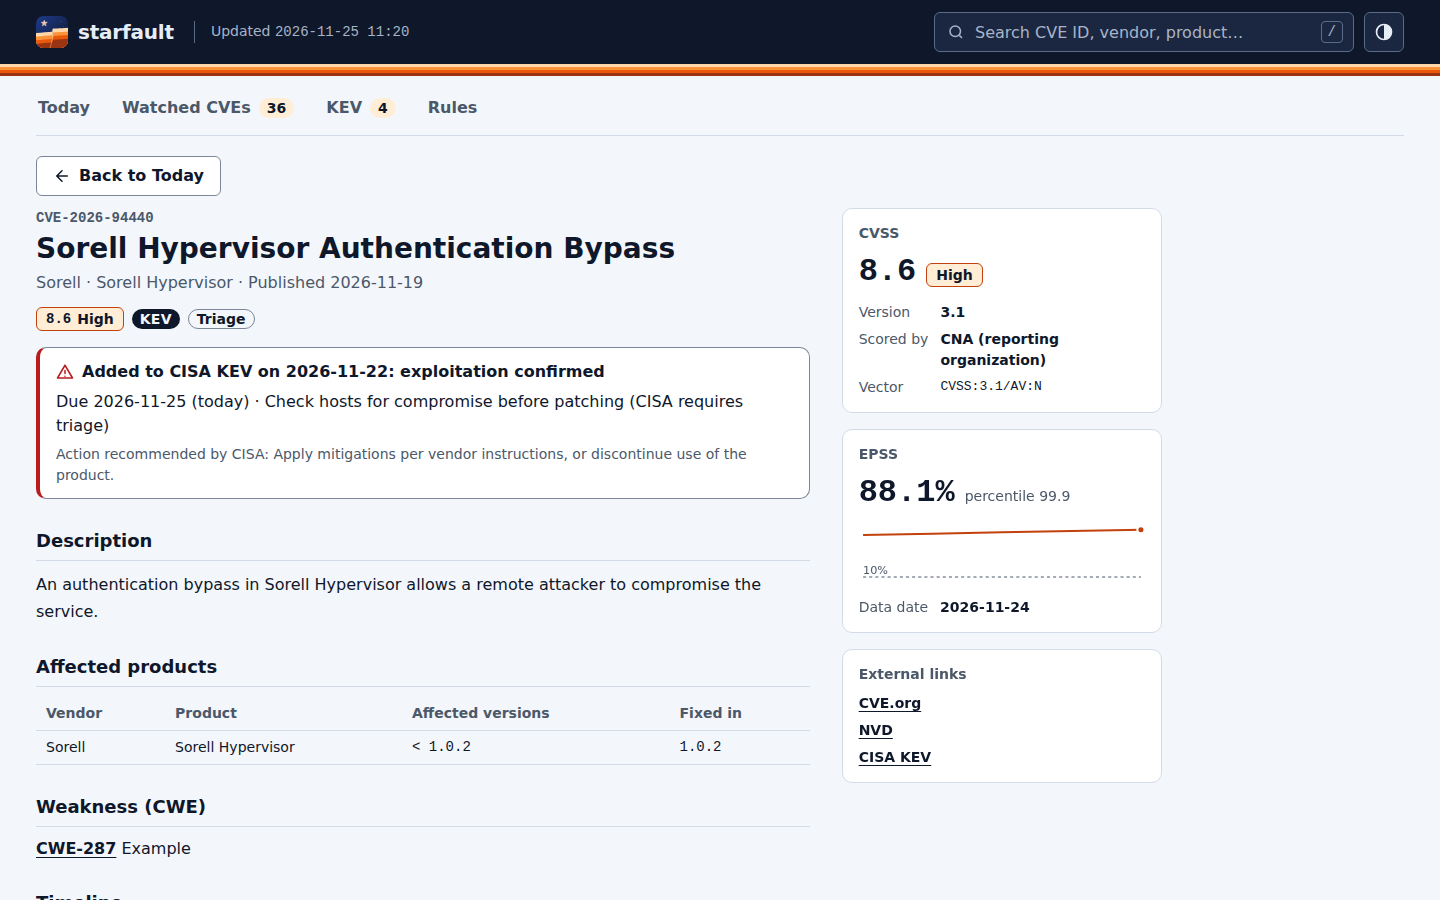
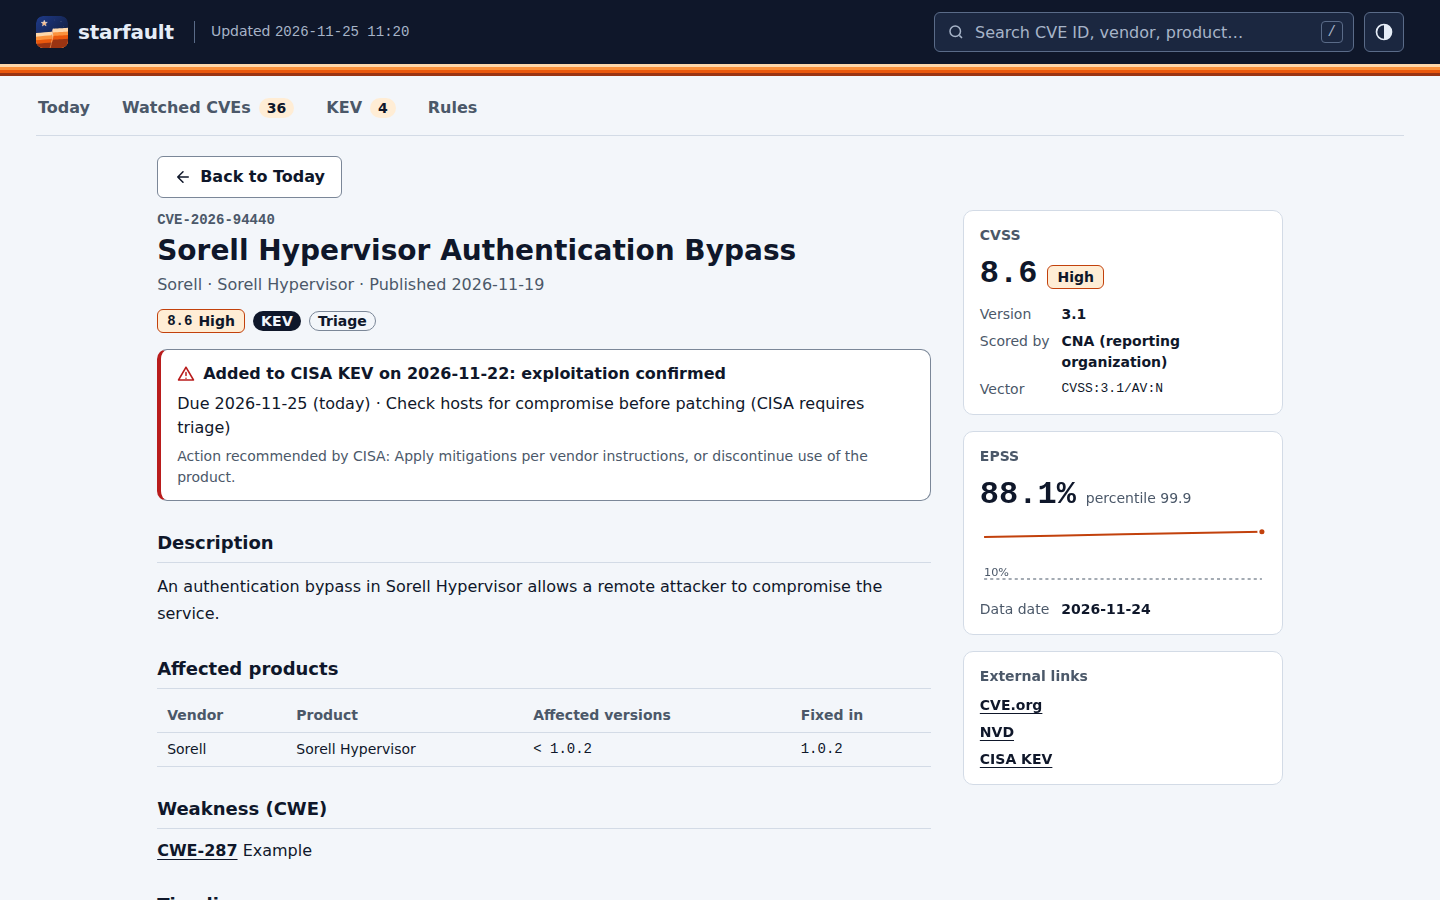
feat(web): 內容寬度上限改為 1680px，詳細頁置中並加上捲動後的固定列
- 頁首、內容與頁尾最寬 1680px 並置中，與 starstrata、starcore 相同
- CVE 詳細頁的寬度上限為內文＋欄距＋右欄，在頁面中置中
- 標題捲到分頁列底下後，桌面版出現一行固定列，放返回按鈕與標題
- 右欄的吸頂位置與捲動定位讓出固定列的高度
- 設計規則與頁面規格寫入版面規則，重新產生詳細頁截圖

diff --git a/web/app.js b/web/app.js
@@ -428,13 +428,14 @@ async function viewKev(route, meta, cves, kev) {
 /* =====================================================================
  * 頁面：CVE 詳細
  * ===================================================================== */
-function backHtml() {
+// cls：頁面上的返回按鈕用 back；固定列裡的那一份用 d-mini-back，兩者行為相同
+function backHtml(cls = 'back') {
   const from = history.state?.from;
   if (from) {
     const s = LOCALE === 'en' || /^[A-Za-z0-9]/.test(from.label) ? ' ' : '';
-    return `<button type="button" class="btn back" data-back>${ICON.back}${esc(t('detail.back', { sep: s, label: from.label }))}</button>`;
+    return `<button type="button" class="btn ${cls}" data-back>${ICON.back}<span>${esc(t('detail.back', { sep: s, label: from.label }))}</span></button>`;
   }
-  return `<a class="btn back" href="#/">${ICON.back}${t('detail.toToday')}</a>`;
+  return `<a class="btn ${cls}" href="#/">${ICON.back}<span>${t('detail.toToday')}</span></a>`;
 }
 function sparkHtml(hist, th) {
   if (hist.length < 2) return '';
@@ -453,7 +454,7 @@ async function viewCve(route, meta, cves, kev) {
   const base = cves.find(r => r.id === id) || (kev.find(k => k.id === id) && fromKev(kev.find(k => k.id === id)));
   let d = null;
   if (base) { try { d = await getData('cve/' + id); } catch (e) { if (!(e instanceof NotFound)) throw e; } }
-  if (!base || !d) return backHtml() + emptyHtml('quiet', t('detail.notFound'), t('detail.notFoundText', { id: `<b class="mono">${esc(route.id)}</b>` }), `<a class="btn" href="#/cves">${t('detail.toCves')}</a>`);
+  if (!base || !d) return `<div class="d-page">` + backHtml() + emptyHtml('quiet', t('detail.notFound'), t('detail.notFoundText', { id: `<b class="mono">${esc(route.id)}</b>` }), `<a class="btn" href="#/cves">${t('detail.toCves')}</a>`) + '</div>';
   route.id = id;
   const r = base, k = d.kev, th = meta.thresholds.epss;
   const ext = (href, text) => `<a href="${esc(href)}" target="_blank" rel="noopener noreferrer">${text}<span class="sr">${t('newTab')}</span></a>`;
@@ -482,7 +483,8 @@ async function viewCve(route, meta, cves, kev) {
       <li>${ext(`https://www.cve.org/CVERecord?id=${encodeURIComponent(id)}`, 'CVE.org')}</li>
       <li>${ext(`https://nvd.nist.gov/vuln/detail/${encodeURIComponent(id)}`, 'NVD')}</li>
       ${k ? `<li>${ext('https://www.cisa.gov/known-exploited-vulnerabilities-catalog', 'CISA KEV')}</li>` : ''}</ul></nav>`;
-  return `${backHtml()}
+  return `<div class="d-page">${backHtml()}
+    <div class="d-mini" hidden><div class="d-mini-in">${backHtml('d-mini-back')}<span class="d-mini-title">${titleHtml(r)}</span></div></div>
     <div class="d-layout">
       <header class="d-head">
         <div class="cve-id">${esc(id)}</div>
@@ -496,7 +498,7 @@ async function viewCve(route, meta, cves, kev) {
         <section aria-labelledby="dDesc"><h3 id="dDesc">${t('detail.desc')}</h3>${desc}</section>
         ${affected}${cwe}${tl}${refs}
       </div>
-    </div>`;
+    </div></div>`;
 }
 
 /* =====================================================================
@@ -599,11 +601,17 @@ function measureSticky() {
   const subH = $('#subnav').offsetHeight;
   const filters = $('#filters');
   const desktop = matchMedia('(min-width: 721px)').matches;
-  document.documentElement.style.setProperty('--tabs-h', subH + 'px');
-  document.documentElement.style.setProperty('--sticky-h', (subH + (filters && desktop ? filters.offsetHeight : 0) + 8) + 'px');
+  const root = document.documentElement;
+  // 詳細頁的固定列是 fixed，不佔版面；捲動定位仍要讓出它的高度
+  const miniH = $('.d-mini') && desktop ? parseFloat(getComputedStyle(root).getPropertyValue('--mini-h')) : 0;
+  root.style.setProperty('--tabs-h', subH + 'px');
+  root.style.setProperty('--sticky-h', (subH + (filters && desktop ? filters.offsetHeight : 0) + miniH + 8) + 'px');
   updateStuck();
 }
 function updateStuck() {
+  // 詳細頁：標題捲到分頁列底下之後才顯示固定列
+  const mini = $('.d-mini');
+  if (mini) mini.hidden = !(matchMedia('(min-width: 721px)').matches && $('.d-head h2').getBoundingClientRect().bottom <= $('#subnav').offsetHeight);
   const f = $('#filters');
   if (!f) return;
   const top = parseFloat(getComputedStyle(f).top) || 0;

diff --git a/web/style.css b/web/style.css
@@ -17,7 +17,7 @@
   --font-sans: system-ui, -apple-system, "Segoe UI", "PingFang TC", "Noto Sans TC", "Microsoft JhengHei", sans-serif;
   --font-mono: ui-monospace, "SF Mono", Menlo, Consolas, "Liberation Mono", monospace;
   --radius-md: 10px; --radius-sm: 6px; --radius-pill: 999px;
-  --content-max: 2560px; --page-pad: clamp(16px, 2.5vw, 48px); --read-max: 76ch;
+  --content-max: 1680px; --page-pad: clamp(16px, 2.5vw, 48px); --read-max: 76ch; --mini-h: 56px;
 }
 @media (prefers-color-scheme: dark) {
   :root:not([data-theme="light"]) {
@@ -288,10 +288,16 @@ button { font: inherit; color: inherit; }
 .tbl tr.cur td { font-weight: 700; background: var(--accent-soft); }
 
 /* ===== CVE 詳細頁 ===== */
-.back { margin: 20px 0 12px; }
+/* ===== CVE 詳細頁 ===== */
+/* 閱讀型頁面：寬度上限 = 內文 + 欄距 + 右欄，與 .d-layout 一致，在外框內置中 */
+.d-page, .sk-article, .d-mini-in { max-width: calc(var(--read-max) + 32px + 320px); margin-inline: auto; }
+/* 標題捲出畫面後才出現的固定列，放返回按鈕與標題 */
+.d-mini { display: none; }
+/* 返回文字含篩選條件時會很長：允許換行，不超出版面 */
+.back { margin: 20px 0 12px; max-width: 100%; height: auto; min-height: 40px; padding-block: 8px; white-space: normal; text-align: left; }
 .d-layout { display: grid; grid-template-columns: minmax(0, var(--read-max)) minmax(260px, 320px); grid-template-areas: 'head side' 'body side'; column-gap: 32px; align-items: start; justify-content: start; }
 .d-head { grid-area: head; }
-.d-side { grid-area: side; position: sticky; top: calc(var(--tabs-h, 49px) + 16px); display: grid; gap: 16px; }
+.d-side { grid-area: side; position: sticky; top: calc(var(--tabs-h, 49px) + var(--mini-h) + 16px); display: grid; gap: 16px; }
 .d-body { grid-area: body; }
 .d-head .cve-id { font-size: 14px; color: var(--muted); }
 .d-head h2 { margin: 2px 0 0; font-size: 28px; line-height: 36px; overflow-wrap: anywhere; }
@@ -358,6 +364,12 @@ button { font: inherit; color: inherit; }
 @media (min-width: 721px) {
   .filters { position: sticky; top: var(--tabs-h, 49px); z-index: 14; }
   .filters.is-stuck { border-bottom-color: var(--border); }
+  .d-mini { position: fixed; top: var(--tabs-h, 49px); left: 0; right: 0; z-index: 13; padding-inline: var(--page-pad); background: var(--bg); border-bottom: 1px solid var(--border); }
+  .d-mini:not([hidden]) { display: block; }
+  .d-mini-in { height: var(--mini-h); display: flex; align-items: center; gap: 16px; }
+  .d-mini-back { flex: 0 1 auto; max-width: 45%; height: 36px; }
+  .d-mini-back > span, .d-mini-title { min-width: 0; overflow: hidden; text-overflow: ellipsis; white-space: nowrap; }
+  .d-mini-title { flex: 1 1 auto; font-size: 18px; font-weight: 600; }
 }
 @media (max-width: 1400px) {
   .sections { grid-template-columns: 1fr 1fr; }

diff --git a/tests/e2e/test_app.py b/tests/e2e/test_app.py
@@ -309,6 +309,68 @@ def test_detail_content(open_page: OpenPage, base_url: str) -> None:
     assert pg.locator(".empty").count() == 1 and "找不到" in pg.inner_text(".empty")
 
 
+# ===== 版面 =====
+
+
+@pytest.mark.parametrize("route", ["", "#/cves", f"#/cve/{FOCUS}"])
+def test_content_width_is_capped_and_centered(
+    open_page: OpenPage, base_url: str, route: str
+) -> None:
+    pg = open_page(2560, 900)
+    _go(pg, base_url + route)
+    view = pg.evaluate("document.documentElement.clientWidth")
+    for sel in (".hdr-in", ".wrap", ".foot-in"):
+        box = pg.locator(sel).bounding_box()
+        assert box is not None and box["width"] == 1680, f"{sel} 最寬 1680px"
+        assert abs(box["x"] - (view - box["x"] - box["width"])) <= 1, f"{sel} 置中"
+
+
+@pytest.mark.parametrize("width", [1440, 2560])
+def test_detail_page_is_centered(open_page: OpenPage, base_url: str, width: int) -> None:
+    pg = open_page(width, 800)
+    _go(pg, base_url + f"#/cve/{FOCUS}")
+    box = pg.locator(".d-page").bounding_box()
+    view = pg.evaluate("document.documentElement.clientWidth")
+    assert box is not None and box["width"] < view - 200, "寬螢幕上詳細頁有寬度上限"
+    left, right = box["x"], view - box["x"] - box["width"]
+    assert abs(left - right) <= 1, f"詳細頁置中：左 {left}、右 {right}"
+    back = pg.locator(".d-page .back").bounding_box()
+    assert back is not None and back["x"] == box["x"], "返回按鈕和內文左緣對齊"
+
+
+def test_mini_bar_appears_after_the_title_scrolls_away(open_page: OpenPage, base_url: str) -> None:
+    pg = open_page(1440, 700)
+    _go(pg, base_url + "#/cves")
+    _click(pg, f'#view a[href="#/cve/{FOCUS}"]', f"#/cve/{FOCUS}")
+    mini = pg.locator(".d-mini")
+    expect(mini).to_be_hidden()
+    pg.evaluate("window.scrollTo(0, 400)")
+    expect(mini).to_be_visible()
+    expect(mini.locator(".d-mini-title")).to_have_text(pg.inner_text(".d-head h2"))
+    tabs = pg.locator("#subnav").bounding_box()
+    bar = mini.bounding_box()
+    side = pg.locator(".d-side").bounding_box()
+    assert tabs and bar and side
+    assert bar["y"] == tabs["y"] + tabs["height"], "固定列貼在分頁列下方"
+    assert bar["height"] <= 60, "固定列只佔一行"
+    assert side["y"] >= bar["y"] + bar["height"], "右欄不被固定列蓋住"
+    pg.evaluate("window.scrollTo(0, 0)")
+    expect(mini).to_be_hidden()
+    pg.evaluate("window.scrollTo(0, 400)")
+    expect(mini).to_be_visible()
+    mini.locator(".d-mini-back").click()
+    expect(pg).to_have_url(re.compile(r"#/cves$"))
+    _ready(pg)
+
+
+def test_mini_bar_is_not_used_on_narrow_screens(open_page: OpenPage, base_url: str) -> None:
+    pg = open_page(390, 800)
+    _go(pg, base_url + f"#/cve/{FOCUS}")
+    pg.evaluate("window.scrollTo(0, 600)")
+    pg.wait_for_function("window.scrollY === 600")
+    expect(pg.locator(".d-mini")).to_be_hidden()
+
+
 # ===== 搜尋 =====
 
 

diff --git a/docs/DESIGN.md b/docs/DESIGN.md
@@ -55,9 +55,12 @@ starfault 是每日 CVE 儀表板。它和 starstrata、starcore 是同一個家
 
 ## 版面
 
+- 內容最寬 1680px（`--content-max`），寬螢幕時置中、左右留白；頁首與頁尾的底色仍然滿版。這個寬度與 starstrata、starcore 相同。
+- 資料型頁面（今日、關注 CVE、KEV、規則）用滿內容寬度；閱讀型頁面（CVE 詳細頁）收窄到內文＋右欄並置中。三個專案共用這條規則。
 - 今日頁：三個清單在 1400px 以上排三欄，860–1400px 排兩欄（KEV 佔滿第一列），以下單欄。
 - CVE 卡片格線 `repeat(auto-fill, minmax(360px, 1fr))`；手機單欄。
-- 詳細頁：左欄最寬 `read-max`（76ch），右欄 260–320px 放 CVSS、EPSS、外部連結，桌面吸頂；1100px 以下改單欄，右欄移到標題區之後。
+- 詳細頁：左欄最寬 `read-max`（76ch），右欄 260–320px 放 CVSS、EPSS、外部連結，桌面吸頂；1100px 以下改單欄，右欄移到標題區之後。整個詳細頁（返回按鈕與兩欄）的寬度上限是內文＋欄距＋右欄，在頁面中置中，寬螢幕的空白平均分在兩側。
+- 詳細頁的標題捲到分頁列底下後，分頁列下方出現一行固定列（返回按鈕＋標題，太長時截斷），只在 721px 以上出現，不佔版面。
 
 ## 內容原則
 

diff --git a/docs/pages.md b/docs/pages.md
@@ -44,6 +44,7 @@
 ## CVE 詳細頁
 
 - 標題區：CVE 編號、標題、廠商・產品・發布日期、嚴重度徽章與旗標。
+- 標題捲出畫面後，分頁列下方出現固定列，放返回按鈕與標題（桌面版）。
 - 列入 KEV 時：提醒框寫列入日期、期限與剩餘天數、需鑑識、勒索軟體、CISA 建議的處置（原文）。
 - 內文：描述（翻譯＋原文）、受影響的產品（版本、修補版本）、CWE、時間軸（發布、第一次有 EPSS、跨過門檻、列入 KEV）、參考連結。
 - 右欄：CVSS（分數、版本、評分來源、向量）、EPSS（分數、百分位、近 30 天走勢、跨過門檻日期）、外部連結（CVE.org、NVD、CISA KEV）。
